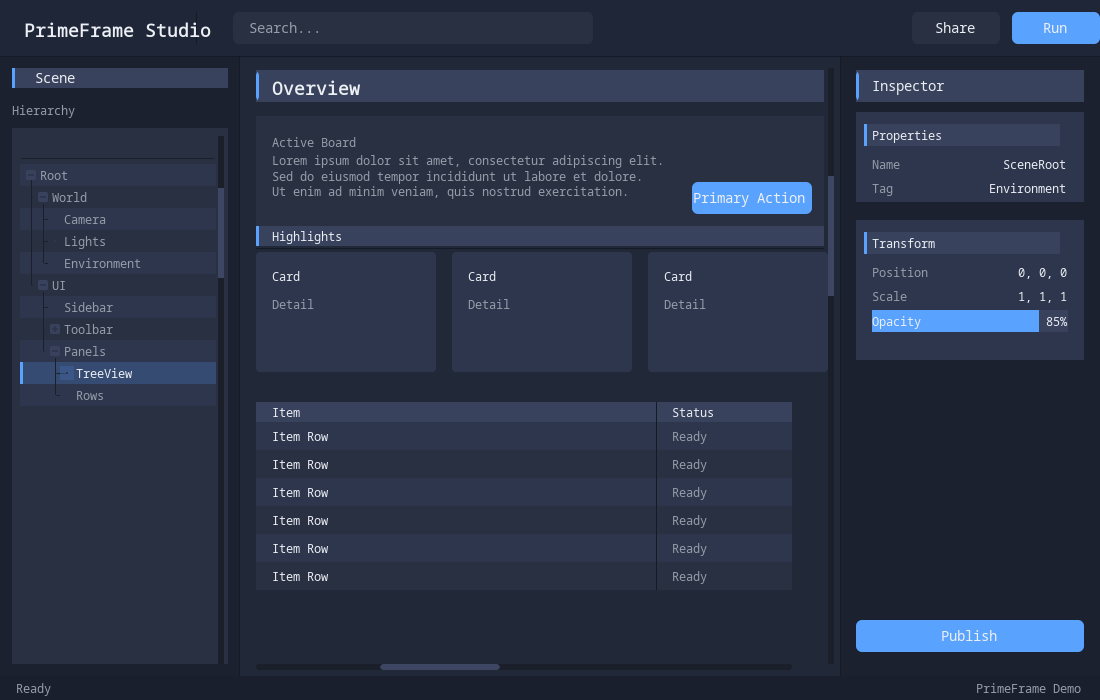
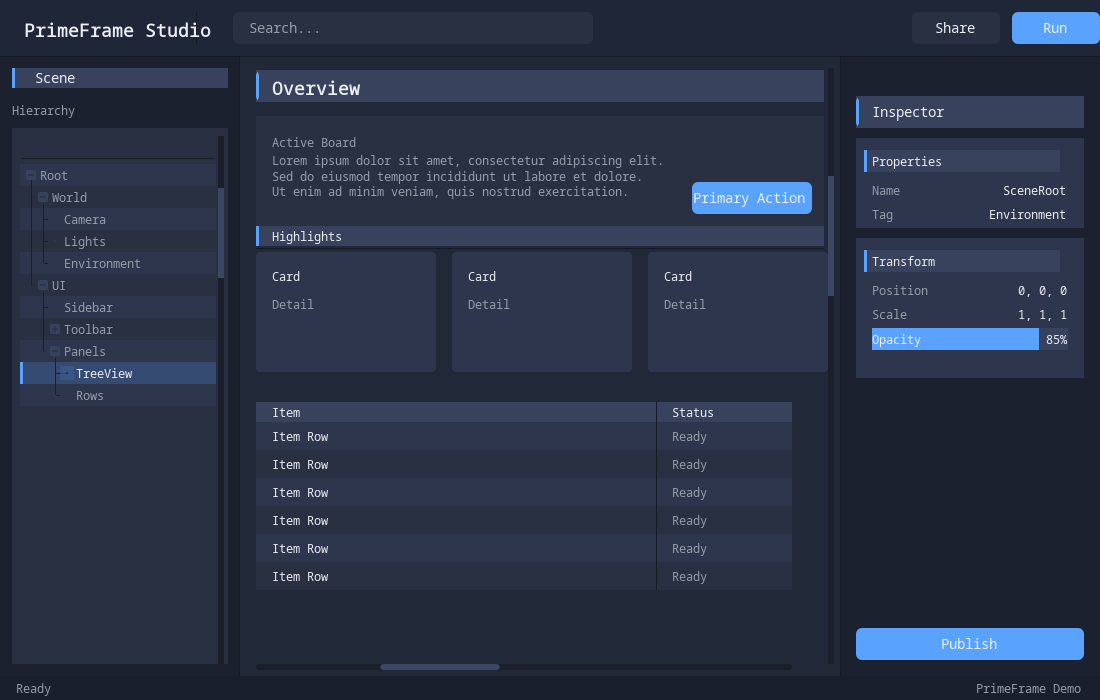
Layout inspector panel with stacks

Changed region(s): [[0.7727, 0.09, 0.9891, 0.54], [0.7727, 0.87, 0.9891, 0.96]]

diff --git a/examples/primestage_render_demo.cpp b/examples/primestage_render_demo.cpp
@@ -29,7 +29,6 @@ int main(int argc, char** argv) {
   Bounds sidebarBounds = shell.sidebarBounds;
   Bounds contentBounds = shell.contentBounds;
   Bounds inspectorBounds = shell.inspectorBounds;
-  Bounds inspectorLocal{0.0f, 0.0f, inspectorBounds.width, inspectorBounds.height};
   float contentW = contentBounds.width;
   float contentH = contentBounds.height;
   float sidebarW = sidebarBounds.width;
@@ -265,29 +264,41 @@ int main(int argc, char** argv) {
   };
 
   auto create_inspector = [&]() {
-    float headerY = UiDefaults::SectionHeaderOffsetY;
-    rightRail.createSectionHeader(Bounds{UiDefaults::SurfaceInset,
-                                         headerY,
-                                         inspectorW - UiDefaults::SurfaceInset * 2.0f,
-                                         UiDefaults::SectionHeaderHeight},
-                                      "Inspector",
-                                      TextRole::BodyBright);
+    StackSpec columnSpec;
+    columnSpec.size.preferredWidth = inspectorW;
+    columnSpec.size.preferredHeight = inspectorBounds.height;
+    columnSpec.padding = Insets{UiDefaults::SurfaceInset,
+                                UiDefaults::SurfaceInset,
+                                UiDefaults::SurfaceInset,
+                                UiDefaults::SurfaceInset};
+    columnSpec.gap = UiDefaults::PanelGap;
+    UiNode column = rightRail.createVerticalStack(columnSpec);
 
-    float propsPanelY = headerY + UiDefaults::SectionHeaderHeight + UiDefaults::PanelGap;
+    SizeSpec headerSpacer;
+    headerSpacer.preferredHeight = UiDefaults::SectionHeaderOffsetY;
+    column.createSpacer(headerSpacer);
+
+    float sectionWidth = inspectorW - UiDefaults::SurfaceInset * 2.0f;
+    column.createSectionHeader(Bounds{0.0f,
+                                      0.0f,
+                                      sectionWidth,
+                                      UiDefaults::SectionHeaderHeight},
+                               "Inspector",
+                               TextRole::BodyBright);
+
     SectionPanel propsPanel =
-        rightRail.createSectionPanel(Bounds{UiDefaults::SurfaceInset,
-                                            propsPanelY,
-                                            inspectorW - UiDefaults::SurfaceInset * 2.0f,
-                                            UiDefaults::PanelHeightS},
-                                                               "Properties");
+        column.createSectionPanel(Bounds{0.0f,
+                                         0.0f,
+                                         sectionWidth,
+                                         UiDefaults::PanelHeightS},
+                                  "Properties");
 
-    float transformPanelY = propsPanelY + UiDefaults::PanelHeightS + UiDefaults::PanelGapLarge;
     SectionPanel transformPanel =
-        rightRail.createSectionPanel(Bounds{UiDefaults::SurfaceInset,
-                                            transformPanelY,
-                                            inspectorW - UiDefaults::SurfaceInset * 2.0f,
-                                            UiDefaults::PanelHeightM},
-                                                                   "Transform");
+        column.createSectionPanel(Bounds{0.0f,
+                                         0.0f,
+                                         sectionWidth,
+                                         UiDefaults::PanelHeightM},
+                                  "Transform");
 
     float opacityRowY = transformPanel.contentBounds.y + UiDefaults::InlineRowOffset;
     float opacityBarX = transformPanel.contentBounds.x;
@@ -295,14 +306,16 @@ int main(int argc, char** argv) {
         Bounds{opacityBarX, opacityRowY, transformPanel.contentBounds.width, opacityBarH},
         0.85f);
 
-    Bounds publishBounds = alignBottomRight(inspectorLocal,
-                                            inspectorW - UiDefaults::SurfaceInset * 2.0f,
-                                            UiDefaults::ControlHeight,
-                                            UiDefaults::SurfaceInset,
-                                            UiDefaults::FooterInset);
-    UiNode publishButton = rightRail.createButton(publishBounds,
-                                                      "Publish",
-                                                      ButtonVariant::Primary);
+    SizeSpec footerSpacer;
+    footerSpacer.stretchY = 1.0f;
+    column.createSpacer(footerSpacer);
+
+    SizeSpec publishSize;
+    publishSize.preferredWidth = sectionWidth;
+    publishSize.preferredHeight = UiDefaults::ControlHeight;
+    column.createButton("Publish",
+                        ButtonVariant::Primary,
+                        publishSize);
 
     propsPanel.panel.createPropertyList(propsPanel.contentBounds,
                                         {{"Name", "SceneRoot"}, {"Tag", "Environment"}});
